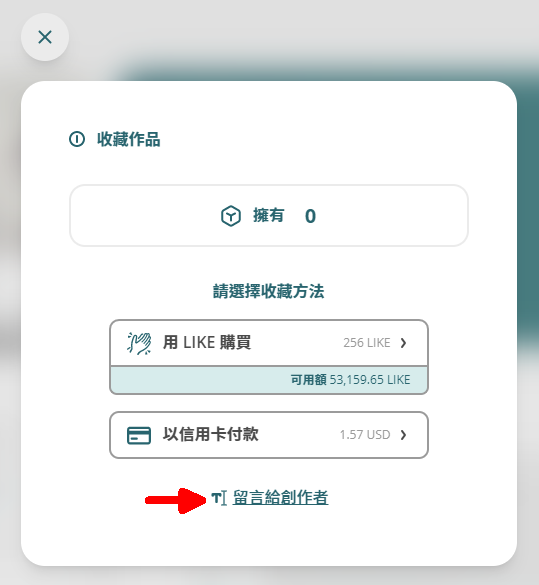
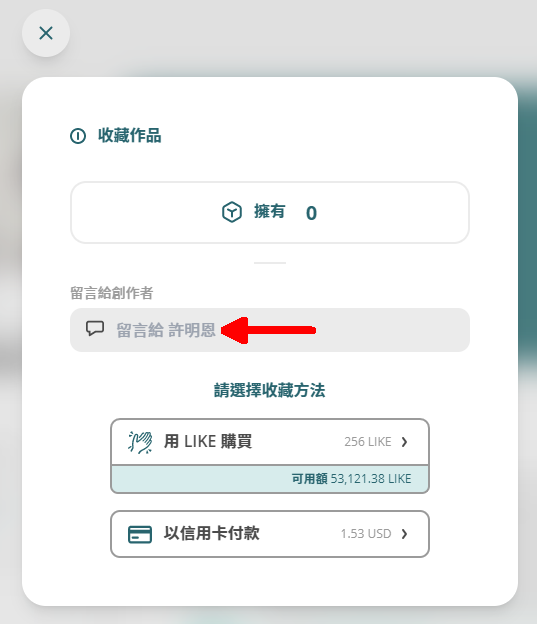
GitBook: [#4296] 收集 Writing NFT

diff --git a/general-guides/writing-nft/collect-writing-nft/README.md b/general-guides/writing-nft/collect-writing-nft/README.md
@@ -132,13 +132,9 @@ description: 如何收集 Writing NFT
 
 <figure><img src="../../../.gitbook/assets/Buy NFT 04.png" alt=""><figcaption></figcaption></figure>
 
-點 Writing NFT 價格或「立即收藏」後彈出收藏作品頁面，點「留言給創作者」並輸入給創作者的訊息（非必須）。
+點 Writing NFT 價格或「立即收藏」後彈出收藏作品頁面，在「留言給創作者」輸入給創作者的訊息（非必須）。輸入完成後又或者直接點「用 LIKE 購買」。
 
 <figure><img src="../../../.gitbook/assets/Buy NFT 20.png" alt=""><figcaption></figcaption></figure>
-
-輸入完成後又或者直接點「用 LIKE 購買」。
-
-<figure><img src="../../../.gitbook/assets/Buy NFT 20.1.png" alt=""><figcaption></figcaption></figure>
 
 彈出 Keplr 視窗，再點「Approve」確認購買。
 
@@ -150,13 +146,11 @@ description: 如何收集 Writing NFT
 
 <figure><img src="../../../.gitbook/assets/Buy NFT 21.png" alt=""><figcaption></figcaption></figure>
 
-點 Writing NFT 價格或「立即收藏」後彈出收藏作品頁面，點「留言給創作者」並輸入給創作者的訊息（非必須）。
+點 Writing NFT 價格或「立即收藏」後彈出收藏作品頁面，在「留言給創作者」輸入給創作者的訊息（非必須）。輸入完成後又或者直接點「用 LIKE 購買」。
 
 <figure><img src="../../../.gitbook/assets/Buy NFT 20.png" alt=""><figcaption></figcaption></figure>
 
 輸入完成後又或者直接點「用 LIKE 購買」。
-
-<figure><img src="../../../.gitbook/assets/Buy NFT 20.1.png" alt=""><figcaption></figcaption></figure>
 
 彈出 Comostation 視窗，再點「Confirm」確認購買。
 
@@ -184,13 +178,9 @@ description: 如何收集 Writing NFT
 
 <figure><img src="../../../.gitbook/assets/Buy NFT 10.png" alt=""><figcaption></figcaption></figure>
 
-點 Writing NFT 價格或「立即收藏」後彈出收藏作品頁面，點「留言給創作者」並輸入給創作者的訊息（非必須）。
+點 Writing NFT 價格或「立即收藏」後彈出收藏作品頁面，在「留言給創作者」輸入給創作者的訊息（非必須）。輸入完成後又或者直接點「用 LIKE 購買」。Liker Land app 將彈出 Wallet Connect 視窗，再點「允許」確認購買。
 
 <figure><img src="../../../.gitbook/assets/Buy NFT 20.png" alt=""><figcaption></figcaption></figure>
-
-輸入完成後又或者直接點「用 LIKE 購買」。Liker Land app 將彈出 Wallet Connect 視窗，再點「允許」確認購買。
-
-<figure><img src="../../../.gitbook/assets/Buy NFT 20.1.png" alt=""><figcaption></figcaption></figure>
 
 <figure><img src="../../../.gitbook/assets/Buy NFT 11.png" alt=""><figcaption></figcaption></figure>
 
@@ -206,13 +196,9 @@ description: 如何收集 Writing NFT
 
 <figure><img src="../../../.gitbook/assets/Collect Writing NFT Liker land app 1.png" alt=""><figcaption></figcaption></figure>
 
-**步驟二**：點 Writing NFT 價格或「立即收藏」後彈出收藏作品頁面，點「留言給創作者」並輸入給創作者的訊息（非必須）。
+**步驟二**：點 Writing NFT 價格或「立即收藏」後彈出收藏作品頁面，在「留言給創作者」輸入給創作者的訊息（非必須）。輸入完成後又或者直接點「用 LIKE 購買」。
 
 <figure><img src="../../../.gitbook/assets/Collect Writing NFT Liker land app 2.png" alt=""><figcaption></figcaption></figure>
-
-輸入完成後又或者直接點「用 LIKE 購買」。
-
-<figure><img src="../../../.gitbook/assets/Collect Writing NFT Liker land app 2.1.png" alt=""><figcaption></figcaption></figure>
 
 **步驟三**：彈出視窗選擇 Liker ID，點擊並連接。
 
